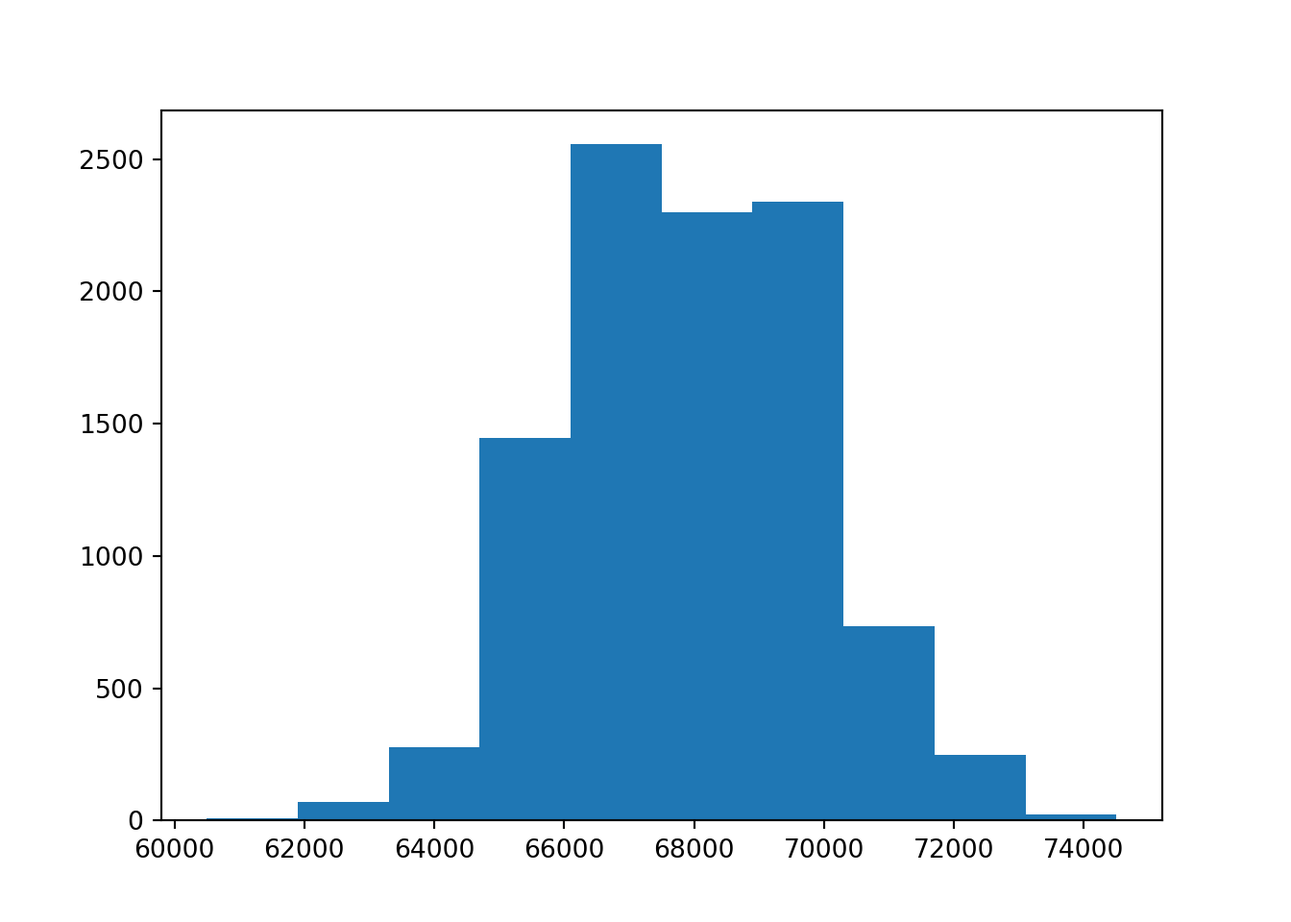
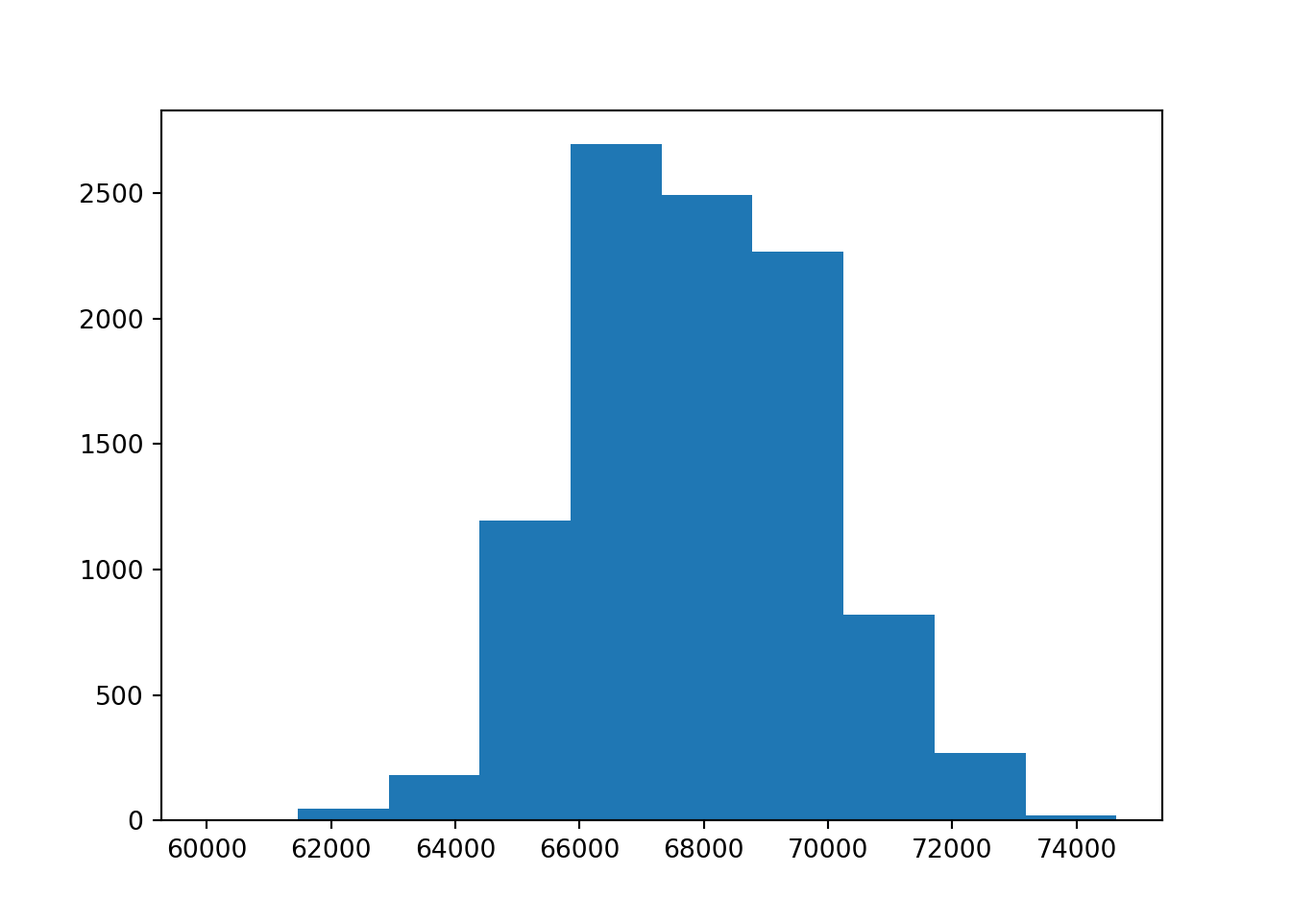
FDR Python updated

diff --git a/docs/introduction.html b/docs/introduction.html
@@ -153,7 +153,10 @@ code span.wa { color: #60a0b0; font-weight: bold; font-style: italic; } /* Warni
 <ul>
 <li class="chapter" data-level="2.1.1" data-path="introduction.html"><a href="introduction.html#python-for-bootstrapping"><i class="fa fa-check"></i><b>2.1.1</b> Python for Bootstrapping</a></li>
 </ul></li>
-<li class="chapter" data-level="2.2" data-path="introduction.html"><a href="introduction.html#adjusting-p-values"><i class="fa fa-check"></i><b>2.2</b> Adjusting p-values</a></li>
+<li class="chapter" data-level="2.2" data-path="introduction.html"><a href="introduction.html#adjusting-p-values"><i class="fa fa-check"></i><b>2.2</b> Adjusting p-values</a>
+<ul>
+<li class="chapter" data-level="2.2.1" data-path="introduction.html"><a href="introduction.html#python-code-for-fdr"><i class="fa fa-check"></i><b>2.2.1</b> Python code for FDR</a></li>
+</ul></li>
 <li class="chapter" data-level="2.3" data-path="introduction.html"><a href="introduction.html#transaction-data"><i class="fa fa-check"></i><b>2.3</b> Transaction data</a></li>
 <li class="chapter" data-level="2.4" data-path="introduction.html"><a href="introduction.html#association-analysis"><i class="fa fa-check"></i><b>2.4</b> Association Analysis</a></li>
 </ul></li>
@@ -264,12 +267,12 @@ code span.wa { color: #60a0b0; font-weight: bold; font-style: italic; } /* Warni
 <span id="cb5-8"><a href="introduction.html#cb5-8" tabindex="-1"></a>  boot.med[i]<span class="ot">=</span><span class="fu">median</span>(boot.samp)</span>
 <span id="cb5-9"><a href="introduction.html#cb5-9" tabindex="-1"></a>}</span>
 <span id="cb5-10"><a href="introduction.html#cb5-10" tabindex="-1"></a><span class="fu">sd</span>(boot.med)</span>
-<span id="cb5-11"><a href="introduction.html#cb5-11" tabindex="-1"></a><span class="do">## [1] 1.355891</span></span>
+<span id="cb5-11"><a href="introduction.html#cb5-11" tabindex="-1"></a><span class="do">## [1] 1.344323</span></span>
 <span id="cb5-12"><a href="introduction.html#cb5-12" tabindex="-1"></a>act.med</span>
 <span id="cb5-13"><a href="introduction.html#cb5-13" tabindex="-1"></a><span class="do">## [1] 335.17</span></span>
 <span id="cb5-14"><a href="introduction.html#cb5-14" tabindex="-1"></a><span class="fu">quantile</span>(boot.med,<span class="at">probs =</span> <span class="fu">c</span>(<span class="fl">0.025</span>,<span class="fl">0.975</span>))</span>
 <span id="cb5-15"><a href="introduction.html#cb5-15" tabindex="-1"></a><span class="do">##    2.5%   97.5% </span></span>
-<span id="cb5-16"><a href="introduction.html#cb5-16" tabindex="-1"></a><span class="do">## 332.675 337.800</span></span>
+<span id="cb5-16"><a href="introduction.html#cb5-16" tabindex="-1"></a><span class="do">## 332.745 337.800</span></span>
 <span id="cb5-17"><a href="introduction.html#cb5-17" tabindex="-1"></a><span class="fu">ggplot</span>(<span class="at">data=</span><span class="fu">data.frame</span>(boot.med),<span class="fu">aes</span>(<span class="at">x=</span>boot.med))<span class="sc">+</span><span class="fu">geom_histogram</span>() <span class="sc">+</span> <span class="fu">labs</span>(<span class="at">x=</span><span class="st">&quot;Bootstrap Sample&quot;</span>,<span class="at">y=</span><span class="st">&quot;Frequency&quot;</span>)</span>
 <span id="cb5-18"><a href="introduction.html#cb5-18" tabindex="-1"></a><span class="do">## `stat_bin()` using `bins = 30`. Pick better value with `binwidth`.</span></span></code></pre></div>
 <p><img src="bookdownproj_files/figure-html/bootstrap%20confidence%20interval-3.png" width="672" />
@@ -292,7 +295,7 @@ The second example is exploring if the median price of homes in Iowa with air co
 <p><img src="bookdownproj_files/figure-html/bootstrap%20hypothesis%20test-1.png" width="672" /></p>
 <div class="sourceCode" id="cb8"><pre class="sourceCode r"><code class="sourceCode r"><span id="cb8-1"><a href="introduction.html#cb8-1" tabindex="-1"></a><span class="fu">quantile</span>(diff.stat,<span class="at">probs =</span> <span class="fu">c</span>(<span class="fl">0.005</span>,<span class="fl">0.995</span>))</span></code></pre></div>
 <pre><code>##    0.5%   99.5% 
-## 58875.0 76865.5</code></pre>
+## 59000.0 76882.8</code></pre>
 <p>Since the confidence interval does NOT include 0, we would conclude that the medians appear to be significantly different.</p>
 <div id="python-for-bootstrapping" class="section level3 hasAnchor" number="2.1.1">
 <h3><span class="header-section-number">2.1.1</span> Python for Bootstrapping<a href="introduction.html#python-for-bootstrapping" class="anchor-section" aria-label="Anchor link to header"></a></h3>
@@ -321,15 +324,15 @@ The second example is exploring if the median price of homes in Iowa with air co
 <span id="cb15-5"><a href="introduction.html#cb15-5" tabindex="-1"></a><span class="co">#temp =statistics.median(random.choice(co2_py,n))</span></span>
 <span id="cb15-6"><a href="introduction.html#cb15-6" tabindex="-1"></a></span>
 <span id="cb15-7"><a href="introduction.html#cb15-7" tabindex="-1"></a><span class="bu">print</span>(statistics.stdev(temp))</span></code></pre></div>
-<pre><code>## 1.3630486884365889</code></pre>
+<pre><code>## 1.3555625565580598</code></pre>
 <div class="sourceCode" id="cb17"><pre class="sourceCode python"><code class="sourceCode python"><span id="cb17-1"><a href="introduction.html#cb17-1" tabindex="-1"></a><span class="bu">print</span>(<span class="st">&quot;Lower 95</span><span class="sc">% c</span><span class="st">onfidence interval for median&quot;</span>,np.quantile(temp,<span class="fl">0.025</span>))</span></code></pre></div>
 <pre><code>## Lower 95% confidence interval for median 332.675</code></pre>
 <div class="sourceCode" id="cb19"><pre class="sourceCode python"><code class="sourceCode python"><span id="cb19-1"><a href="introduction.html#cb19-1" tabindex="-1"></a><span class="bu">print</span>(<span class="st">&quot;Upper 95</span><span class="sc">% c</span><span class="st">onfidence interval for median&quot;</span>,np.quantile(temp,<span class="fl">0.975</span>))</span></code></pre></div>
-<pre><code>## Upper 95% confidence interval for median 337.815</code></pre>
+<pre><code>## Upper 95% confidence interval for median 337.81</code></pre>
 <div class="sourceCode" id="cb21"><pre class="sourceCode python"><code class="sourceCode python"><span id="cb21-1"><a href="introduction.html#cb21-1" tabindex="-1"></a>plt.hist(temp)</span></code></pre></div>
-<pre><code>## (array([2.000e+00, 4.900e+01, 6.030e+02, 1.719e+03, 2.841e+03, 2.393e+03,
-##        1.653e+03, 6.830e+02, 5.100e+01, 6.000e+00]), array([330.14 , 331.186, 332.232, 333.278, 334.324, 335.37 , 336.416,
-##        337.462, 338.508, 339.554, 340.6  ]), &lt;BarContainer object of 10 artists&gt;)</code></pre>
+<pre><code>## (array([  18.,  253.,  771., 2082., 2426., 2836.,  938.,  628.,   43.,
+##           5.]), array([330.735, 331.706, 332.677, 333.648, 334.619, 335.59 , 336.561,
+##        337.532, 338.503, 339.474, 340.445]), &lt;BarContainer object of 10 artists&gt;)</code></pre>
 <div class="sourceCode" id="cb23"><pre class="sourceCode python"><code class="sourceCode python"><span id="cb23-1"><a href="introduction.html#cb23-1" tabindex="-1"></a>plt.show()</span></code></pre></div>
 <p><img src="bookdownproj_files/figure-html/unnamed-chunk-1-2.png" width="672" /></p>
 <div class="sourceCode" id="cb24"><pre class="sourceCode python"><code class="sourceCode python"><span id="cb24-1"><a href="introduction.html#cb24-1" tabindex="-1"></a>ames_py<span class="op">=</span>r.ames</span>
@@ -347,9 +350,9 @@ The second example is exploring if the median price of homes in Iowa with air co
 <span id="cb26-10"><a href="introduction.html#cb26-10" tabindex="-1"></a>  diff_sale.append(diff_temp)</span>
 <span id="cb26-11"><a href="introduction.html#cb26-11" tabindex="-1"></a>  </span>
 <span id="cb26-12"><a href="introduction.html#cb26-12" tabindex="-1"></a>plt.hist(diff_sale)</span></code></pre></div>
-<pre><code>## (array([   9.,   70.,  277., 1446., 2555., 2297., 2337.,  736.,  250.,
-##          23.]), array([60500., 61900., 63300., 64700., 66100., 67500., 68900., 70300.,
-##        71700., 73100., 74500.]), &lt;BarContainer object of 10 artists&gt;)</code></pre>
+<pre><code>## (array([   7.,   48.,  181., 1196., 2694., 2492., 2268.,  822.,  270.,
+##          22.]), array([60000.  , 61464.25, 62928.5 , 64392.75, 65857.  , 67321.25,
+##        68785.5 , 70249.75, 71714.  , 73178.25, 74642.5 ]), &lt;BarContainer object of 10 artists&gt;)</code></pre>
 <div class="sourceCode" id="cb28"><pre class="sourceCode python"><code class="sourceCode python"><span id="cb28-1"><a href="introduction.html#cb28-1" tabindex="-1"></a>plt.show()</span></code></pre></div>
 <p><img src="bookdownproj_files/figure-html/unnamed-chunk-1-3.png" width="672" /></p>
 </div>
@@ -365,13 +368,25 @@ The second example is exploring if the median price of homes in Iowa with air co
 <span id="cb29-6"><a href="introduction.html#cb29-6" tabindex="-1"></a><span class="co">#Benjamini &amp; Hochberg</span></span>
 <span id="cb29-7"><a href="introduction.html#cb29-7" tabindex="-1"></a><span class="fu">p.adjust</span>(temp,<span class="at">method=</span><span class="st">&quot;BH&quot;</span>)</span>
 <span id="cb29-8"><a href="introduction.html#cb29-8" tabindex="-1"></a><span class="do">## [1] 0.0040000 0.0600000 0.2666667 0.4000000</span></span></code></pre></div>
+<div id="python-code-for-fdr" class="section level3 hasAnchor" number="2.2.1">
+<h3><span class="header-section-number">2.2.1</span> Python code for FDR<a href="introduction.html#python-code-for-fdr" class="anchor-section" aria-label="Anchor link to header"></a></h3>
+<p>Please note that the false discover rate command is commented out in this chunk. This is because the stats within scipy needs an earlier version of numpy (which I just updated for the bootstrap algorithm above).</p>
+<div class="sourceCode" id="cb30"><pre class="sourceCode python"><code class="sourceCode python"><span id="cb30-1"><a href="introduction.html#cb30-1" tabindex="-1"></a><span class="co">#from scipy import stats</span></span>
+<span id="cb30-2"><a href="introduction.html#cb30-2" tabindex="-1"></a></span>
+<span id="cb30-3"><a href="introduction.html#cb30-3" tabindex="-1"></a>p_test <span class="op">=</span> np.array([<span class="fl">0.001</span>,<span class="fl">0.03</span>,<span class="fl">0.2</span>,<span class="fl">0.4</span>])</span>
+<span id="cb30-4"><a href="introduction.html#cb30-4" tabindex="-1"></a><span class="co">#stats.false_discovery_control(p_test, method=&#39;bh&#39;)</span></span>
+<span id="cb30-5"><a href="introduction.html#cb30-5" tabindex="-1"></a></span>
+<span id="cb30-6"><a href="introduction.html#cb30-6" tabindex="-1"></a><span class="co"># Bonferroni</span></span>
+<span id="cb30-7"><a href="introduction.html#cb30-7" tabindex="-1"></a>p_test <span class="op">*</span><span class="bu">len</span>(p_test)</span></code></pre></div>
+<pre><code>## array([0.004, 0.12 , 0.8  , 1.6  ])</code></pre>
+</div>
 </div>
 <div id="transaction-data" class="section level2 hasAnchor" number="2.3">
 <h2><span class="header-section-number">2.3</span> Transaction data<a href="introduction.html#transaction-data" class="anchor-section" aria-label="Anchor link to header"></a></h2>
 <p>A basic concept you will need is how to deal with transactional data. Trasactional data is usually in the form of a long data set with multiple observation per “ID”. Take for example the following small data set:</p>
 <table class=" lightable-paper lightable-striped" style="font-family: &quot;Arial Narrow&quot;, arial, helvetica, sans-serif; width: auto !important; margin-left: auto; margin-right: auto;">
 <caption>
-<span id="tab:unnamed-chunk-2">Table 2.1: </span>Example
+<span id="tab:unnamed-chunk-3">Table 2.1: </span>Example
 </caption>
 <thead>
 <tr>
@@ -490,16 +505,16 @@ NA
 </tbody>
 </table>
 <p>Notice that there are four transactions for Person 1, four transactions for Person 2 (including a missing value) and three transactions for Person 3. We will need to “roll” these up into one observation per person.</p>
-<div class="sourceCode" id="cb30"><pre class="sourceCode r"><code class="sourceCode r"><span id="cb30-1"><a href="introduction.html#cb30-1" tabindex="-1"></a>new.check <span class="ot">=</span> check <span class="sc">%&gt;%</span> <span class="fu">group_by</span>(ID) <span class="sc">%&gt;%</span></span>
-<span id="cb30-2"><a href="introduction.html#cb30-2" tabindex="-1"></a>  <span class="fu">summarise</span>(<span class="at">mean.check=</span><span class="fu">mean</span>(Checking,<span class="at">na.rm=</span>T),<span class="at">std.check=</span><span class="fu">sd</span>(Checking,<span class="at">na.rm=</span>T))</span></code></pre></div>
+<div class="sourceCode" id="cb32"><pre class="sourceCode r"><code class="sourceCode r"><span id="cb32-1"><a href="introduction.html#cb32-1" tabindex="-1"></a>new.check <span class="ot">=</span> check <span class="sc">%&gt;%</span> <span class="fu">group_by</span>(ID) <span class="sc">%&gt;%</span></span>
+<span id="cb32-2"><a href="introduction.html#cb32-2" tabindex="-1"></a>  <span class="fu">summarise</span>(<span class="at">mean.check=</span><span class="fu">mean</span>(Checking,<span class="at">na.rm=</span>T),<span class="at">std.check=</span><span class="fu">sd</span>(Checking,<span class="at">na.rm=</span>T))</span></code></pre></div>
 <p>It is HIGHLY recommended that you ALWAYS create a flag for missing values (do this BEFORE rolling up). The following code creates the flag for the missing values and then rolls everything up:</p>
-<div class="sourceCode" id="cb31"><pre class="sourceCode r"><code class="sourceCode r"><span id="cb31-1"><a href="introduction.html#cb31-1" tabindex="-1"></a>check<span class="sc">$</span>flag<span class="ot">=</span><span class="fu">ifelse</span>(<span class="fu">is.na</span>(check<span class="sc">$</span>Checking),<span class="dv">1</span>,<span class="dv">0</span>)</span>
-<span id="cb31-2"><a href="introduction.html#cb31-2" tabindex="-1"></a></span>
-<span id="cb31-3"><a href="introduction.html#cb31-3" tabindex="-1"></a>new.check <span class="ot">=</span> check <span class="sc">%&gt;%</span> <span class="fu">group_by</span>(ID) <span class="sc">%&gt;%</span></span>
-<span id="cb31-4"><a href="introduction.html#cb31-4" tabindex="-1"></a>  <span class="fu">summarise</span>(<span class="at">mean.check=</span><span class="fu">mean</span>(Checking,<span class="at">na.rm=</span>T),<span class="at">std.check=</span><span class="fu">sd</span>(Checking,<span class="at">na.rm=</span>T),<span class="at">na.check=</span><span class="fu">sum</span>(flag))</span></code></pre></div>
+<div class="sourceCode" id="cb33"><pre class="sourceCode r"><code class="sourceCode r"><span id="cb33-1"><a href="introduction.html#cb33-1" tabindex="-1"></a>check<span class="sc">$</span>flag<span class="ot">=</span><span class="fu">ifelse</span>(<span class="fu">is.na</span>(check<span class="sc">$</span>Checking),<span class="dv">1</span>,<span class="dv">0</span>)</span>
+<span id="cb33-2"><a href="introduction.html#cb33-2" tabindex="-1"></a></span>
+<span id="cb33-3"><a href="introduction.html#cb33-3" tabindex="-1"></a>new.check <span class="ot">=</span> check <span class="sc">%&gt;%</span> <span class="fu">group_by</span>(ID) <span class="sc">%&gt;%</span></span>
+<span id="cb33-4"><a href="introduction.html#cb33-4" tabindex="-1"></a>  <span class="fu">summarise</span>(<span class="at">mean.check=</span><span class="fu">mean</span>(Checking,<span class="at">na.rm=</span>T),<span class="at">std.check=</span><span class="fu">sd</span>(Checking,<span class="at">na.rm=</span>T),<span class="at">na.check=</span><span class="fu">sum</span>(flag))</span></code></pre></div>
 <table class=" lightable-paper lightable-striped" style="font-family: &quot;Arial Narrow&quot;, arial, helvetica, sans-serif; width: auto !important; margin-left: auto; margin-right: auto;">
 <caption>
-<span id="tab:unnamed-chunk-3">Table 2.2: </span>Rolled up
+<span id="tab:unnamed-chunk-4">Table 2.2: </span>Rolled up
 </caption>
 <thead>
 <tr>
@@ -693,8 +708,8 @@ bread
 </tbody>
 </table>
 <p>As you can see, there is a separate line for each item. If we want to analyze this data set with the package ‘arules’, we need the data to be wide (not long). In other words, one line per ID. We can create the wide data set in R by using the following line (and then “inspect” it or view it).</p>
-<div class="sourceCode" id="cb32"><pre class="sourceCode r"><code class="sourceCode r"><span id="cb32-1"><a href="introduction.html#cb32-1" tabindex="-1"></a>trans.dat <span class="ot">&lt;-</span> <span class="fu">as</span>(<span class="fu">split</span>(temp.dat<span class="sc">$</span>Grocery, temp.dat<span class="sc">$</span>ID), <span class="st">&quot;transactions&quot;</span>)</span>
-<span id="cb32-2"><a href="introduction.html#cb32-2" tabindex="-1"></a><span class="fu">inspect</span>(trans.dat)</span></code></pre></div>
+<div class="sourceCode" id="cb34"><pre class="sourceCode r"><code class="sourceCode r"><span id="cb34-1"><a href="introduction.html#cb34-1" tabindex="-1"></a>trans.dat <span class="ot">&lt;-</span> <span class="fu">as</span>(<span class="fu">split</span>(temp.dat<span class="sc">$</span>Grocery, temp.dat<span class="sc">$</span>ID), <span class="st">&quot;transactions&quot;</span>)</span>
+<span id="cb34-2"><a href="introduction.html#cb34-2" tabindex="-1"></a><span class="fu">inspect</span>(trans.dat)</span></code></pre></div>
 <pre><code>##      items                             transactionID
 ## [1]  {bread, egg, oat packet, papaya}  1            
 ## [2]  {bread, milk, oat packet, papaya} 2            
@@ -708,14 +723,14 @@ bread
 ## [10] {bread, milk, papaya}             10           
 ## [11] {egg, milk}                       11</code></pre>
 <p>The following code runs the association analysis and stores the results in the object rules. Once you have this stored object, you can view it and partition it in different ways..</p>
-<div class="sourceCode" id="cb34"><pre class="sourceCode r"><code class="sourceCode r"><span id="cb34-1"><a href="introduction.html#cb34-1" tabindex="-1"></a>trans.dat<span class="sc">@</span>itemInfo<span class="sc">$</span>labels</span></code></pre></div>
+<div class="sourceCode" id="cb36"><pre class="sourceCode r"><code class="sourceCode r"><span id="cb36-1"><a href="introduction.html#cb36-1" tabindex="-1"></a>trans.dat<span class="sc">@</span>itemInfo<span class="sc">$</span>labels</span></code></pre></div>
 <pre><code>## [1] &quot;bread&quot;      &quot;butter&quot;     &quot;egg&quot;        &quot;milk&quot;       &quot;oat packet&quot;
 ## [6] &quot;papaya&quot;</code></pre>
-<div class="sourceCode" id="cb36"><pre class="sourceCode r"><code class="sourceCode r"><span id="cb36-1"><a href="introduction.html#cb36-1" tabindex="-1"></a><span class="co"># Create an item frequency plot for the top 3 items</span></span>
-<span id="cb36-2"><a href="introduction.html#cb36-2" tabindex="-1"></a><span class="fu">itemFrequencyPlot</span>(trans.dat,<span class="at">topN=</span><span class="dv">3</span>,<span class="at">type=</span><span class="st">&quot;absolute&quot;</span>)</span></code></pre></div>
+<div class="sourceCode" id="cb38"><pre class="sourceCode r"><code class="sourceCode r"><span id="cb38-1"><a href="introduction.html#cb38-1" tabindex="-1"></a><span class="co"># Create an item frequency plot for the top 3 items</span></span>
+<span id="cb38-2"><a href="introduction.html#cb38-2" tabindex="-1"></a><span class="fu">itemFrequencyPlot</span>(trans.dat,<span class="at">topN=</span><span class="dv">3</span>,<span class="at">type=</span><span class="st">&quot;absolute&quot;</span>)</span></code></pre></div>
 <p><img src="bookdownproj_files/figure-html/association2-1.png" width="672" /></p>
-<div class="sourceCode" id="cb37"><pre class="sourceCode r"><code class="sourceCode r"><span id="cb37-1"><a href="introduction.html#cb37-1" tabindex="-1"></a><span class="co"># Get the rules</span></span>
-<span id="cb37-2"><a href="introduction.html#cb37-2" tabindex="-1"></a>rules <span class="ot">&lt;-</span> <span class="fu">apriori</span>(trans.dat, <span class="at">parameter =</span> <span class="fu">list</span>(<span class="at">supp =</span> <span class="fl">0.1</span>, <span class="at">conf =</span> <span class="fl">0.001</span>, <span class="at">target=</span><span class="st">&quot;rules&quot;</span>))</span></code></pre></div>
+<div class="sourceCode" id="cb39"><pre class="sourceCode r"><code class="sourceCode r"><span id="cb39-1"><a href="introduction.html#cb39-1" tabindex="-1"></a><span class="co"># Get the rules</span></span>
+<span id="cb39-2"><a href="introduction.html#cb39-2" tabindex="-1"></a>rules <span class="ot">&lt;-</span> <span class="fu">apriori</span>(trans.dat, <span class="at">parameter =</span> <span class="fu">list</span>(<span class="at">supp =</span> <span class="fl">0.1</span>, <span class="at">conf =</span> <span class="fl">0.001</span>, <span class="at">target=</span><span class="st">&quot;rules&quot;</span>))</span></code></pre></div>
 <pre><code>## Apriori
 ## 
 ## Parameter specification:
@@ -737,9 +752,9 @@ bread
 ## checking subsets of size 1 2 3 done [0.00s].
 ## writing ... [32 rule(s)] done [0.00s].
 ## creating S4 object  ... done [0.00s].</code></pre>
-<div class="sourceCode" id="cb39"><pre class="sourceCode r"><code class="sourceCode r"><span id="cb39-1"><a href="introduction.html#cb39-1" tabindex="-1"></a>rules<span class="ot">&lt;-</span><span class="fu">sort</span>(rules, <span class="at">by=</span><span class="st">&quot;confidence&quot;</span>, <span class="at">decreasing=</span><span class="cn">TRUE</span>)</span>
-<span id="cb39-2"><a href="introduction.html#cb39-2" tabindex="-1"></a></span>
-<span id="cb39-3"><a href="introduction.html#cb39-3" tabindex="-1"></a><span class="fu">inspect</span>(rules[<span class="dv">1</span><span class="sc">:</span><span class="dv">4</span>])</span></code></pre></div>
+<div class="sourceCode" id="cb41"><pre class="sourceCode r"><code class="sourceCode r"><span id="cb41-1"><a href="introduction.html#cb41-1" tabindex="-1"></a>rules<span class="ot">&lt;-</span><span class="fu">sort</span>(rules, <span class="at">by=</span><span class="st">&quot;confidence&quot;</span>, <span class="at">decreasing=</span><span class="cn">TRUE</span>)</span>
+<span id="cb41-2"><a href="introduction.html#cb41-2" tabindex="-1"></a></span>
+<span id="cb41-3"><a href="introduction.html#cb41-3" tabindex="-1"></a><span class="fu">inspect</span>(rules[<span class="dv">1</span><span class="sc">:</span><span class="dv">4</span>])</span></code></pre></div>
 <pre><code>##     lhs                    rhs      support   confidence coverage  lift    
 ## [1] {butter}            =&gt; {bread}  0.2727273 1.0000000  0.2727273 1.571429
 ## [2] {bread, oat packet} =&gt; {papaya} 0.1818182 1.0000000  0.1818182 1.833333
@@ -750,7 +765,7 @@ bread
 ## [2] 2    
 ## [3] 3    
 ## [4] 4</code></pre>
-<div class="sourceCode" id="cb41"><pre class="sourceCode r"><code class="sourceCode r"><span id="cb41-1"><a href="introduction.html#cb41-1" tabindex="-1"></a>oat.rules <span class="ot">=</span> <span class="fu">apriori</span>(trans.dat, <span class="at">parameter =</span> <span class="fu">list</span>(<span class="at">supp=</span><span class="fl">0.001</span>, <span class="at">conf=</span><span class="fl">0.8</span>),<span class="at">appearance =</span> <span class="fu">list</span>(<span class="at">default=</span><span class="st">&quot;lhs&quot;</span>,<span class="at">rhs=</span><span class="st">&quot;oat packet&quot;</span>))</span></code></pre></div>
+<div class="sourceCode" id="cb43"><pre class="sourceCode r"><code class="sourceCode r"><span id="cb43-1"><a href="introduction.html#cb43-1" tabindex="-1"></a>oat.rules <span class="ot">=</span> <span class="fu">apriori</span>(trans.dat, <span class="at">parameter =</span> <span class="fu">list</span>(<span class="at">supp=</span><span class="fl">0.001</span>, <span class="at">conf=</span><span class="fl">0.8</span>),<span class="at">appearance =</span> <span class="fu">list</span>(<span class="at">default=</span><span class="st">&quot;lhs&quot;</span>,<span class="at">rhs=</span><span class="st">&quot;oat packet&quot;</span>))</span></code></pre></div>
 <pre><code>## Apriori
 ## 
 ## Parameter specification:
@@ -772,7 +787,7 @@ bread
 ## checking subsets of size 1 2 3 4 done [0.00s].
 ## writing ... [2 rule(s)] done [0.00s].
 ## creating S4 object  ... done [0.00s].</code></pre>
-<div class="sourceCode" id="cb43"><pre class="sourceCode r"><code class="sourceCode r"><span id="cb43-1"><a href="introduction.html#cb43-1" tabindex="-1"></a>oat.rules2 <span class="ot">=</span> <span class="fu">apriori</span>(trans.dat, <span class="at">parameter =</span> <span class="fu">list</span>(<span class="at">supp=</span><span class="fl">0.001</span>, <span class="at">conf=</span><span class="fl">0.8</span>),<span class="at">appearance =</span> <span class="fu">list</span>(<span class="at">lhs=</span><span class="st">&quot;oat packet&quot;</span>, <span class="at">default=</span><span class="st">&quot;rhs&quot;</span>))</span></code></pre></div>
+<div class="sourceCode" id="cb45"><pre class="sourceCode r"><code class="sourceCode r"><span id="cb45-1"><a href="introduction.html#cb45-1" tabindex="-1"></a>oat.rules2 <span class="ot">=</span> <span class="fu">apriori</span>(trans.dat, <span class="at">parameter =</span> <span class="fu">list</span>(<span class="at">supp=</span><span class="fl">0.001</span>, <span class="at">conf=</span><span class="fl">0.8</span>),<span class="at">appearance =</span> <span class="fu">list</span>(<span class="at">lhs=</span><span class="st">&quot;oat packet&quot;</span>, <span class="at">default=</span><span class="st">&quot;rhs&quot;</span>))</span></code></pre></div>
 <pre><code>## Apriori
 ## 
 ## Parameter specification:
@@ -794,13 +809,13 @@ bread
 ## checking subsets of size 1 2 done [0.00s].
 ## writing ... [0 rule(s)] done [0.00s].
 ## creating S4 object  ... done [0.00s].</code></pre>
-<div class="sourceCode" id="cb45"><pre class="sourceCode r"><code class="sourceCode r"><span id="cb45-1"><a href="introduction.html#cb45-1" tabindex="-1"></a><span class="fu">plot</span>(rules)</span></code></pre></div>
+<div class="sourceCode" id="cb47"><pre class="sourceCode r"><code class="sourceCode r"><span id="cb47-1"><a href="introduction.html#cb47-1" tabindex="-1"></a><span class="fu">plot</span>(rules)</span></code></pre></div>
 <pre><code>## To reduce overplotting, jitter is added! Use jitter = 0 to prevent jitter.</code></pre>
 <p><img src="bookdownproj_files/figure-html/association2-2.png" width="672" /></p>
-<div class="sourceCode" id="cb47"><pre class="sourceCode r"><code class="sourceCode r"><span id="cb47-1"><a href="introduction.html#cb47-1" tabindex="-1"></a>top10rules <span class="ot">=</span> <span class="fu">head</span>(rules, <span class="at">n =</span> <span class="dv">10</span>, <span class="at">by =</span> <span class="st">&quot;confidence&quot;</span>)</span>
-<span id="cb47-2"><a href="introduction.html#cb47-2" tabindex="-1"></a><span class="fu">plot</span>(top10rules, <span class="at">method =</span> <span class="st">&quot;graph&quot;</span>,  <span class="at">engine =</span> <span class="st">&quot;htmlwidget&quot;</span>)</span></code></pre></div>
-<div class="visNetwork html-widget html-fill-item-overflow-hidden html-fill-item" id="htmlwidget-1e19017cbf4a64143e09" style="width:672px;height:480px;"></div>
-<script type="application/json" data-for="htmlwidget-1e19017cbf4a64143e09">{"x":{"nodes":{"id":[1,2,3,4,5,6,7,8,9,10,11,12,13,14,15,16],"label":["bread","butter","egg","milk","oat packet","papaya","rule 1","rule 2","rule 3","rule 4","rule 5","rule 6","rule 7","rule 8","rule 9","rule 10"],"group":[1,1,1,1,1,1,2,2,2,2,2,2,2,2,2,2],"value":[1,1,1,1,1,1,20.8,1,20.8,40.6,1,1,1,100,20.8,40.6],"color":["#CBD2FC","#CBD2FC","#CBD2FC","#CBD2FC","#CBD2FC","#CBD2FC","#EE6666","#EE1B1B","#EE9999","#EECBCB","#EECBCB","#EECBCB","#EEB1B1","#EED4D4","#EEDCDC","#EECBCB"],"title":["bread","butter","egg","milk","oat packet","papaya","<B>[1]<\/B><BR><B>{butter}<\/B><BR>&nbsp;&nbsp; => <B>{bread}<\/B><BR><BR>support = 0.273<BR>confidence = 1<BR>coverage = 0.273<BR>lift = 1.57<BR>count = 3<BR>order = 2<BR>id = 1","<B>[2]<\/B><BR><B>{bread,<BR>&nbsp;&nbsp;oat packet}<\/B><BR>&nbsp;&nbsp; => <B>{papaya}<\/B><BR><BR>support = 0.182<BR>confidence = 1<BR>coverage = 0.182<BR>lift = 1.83<BR>count = 2<BR>order = 3<BR>id = 2","<B>[3]<\/B><BR><B>{oat packet}<\/B><BR>&nbsp;&nbsp; => <B>{papaya}<\/B><BR><BR>support = 0.273<BR>confidence = 0.75<BR>coverage = 0.364<BR>lift = 1.38<BR>count = 3<BR>order = 2<BR>id = 3","<B>[4]<\/B><BR><B>{papaya}<\/B><BR>&nbsp;&nbsp; => <B>{bread}<\/B><BR><BR>support = 0.364<BR>confidence = 0.667<BR>coverage = 0.545<BR>lift = 1.05<BR>count = 4<BR>order = 2<BR>id = 4","<B>[5]<\/B><BR><B>{oat packet,<BR>&nbsp;&nbsp;papaya}<\/B><BR>&nbsp;&nbsp; => <B>{bread}<\/B><BR><BR>support = 0.182<BR>confidence = 0.667<BR>coverage = 0.273<BR>lift = 1.05<BR>count = 2<BR>order = 3<BR>id = 5","<B>[6]<\/B><BR><B>{milk,<BR>&nbsp;&nbsp;papaya}<\/B><BR>&nbsp;&nbsp; => <B>{bread}<\/B><BR><BR>support = 0.182<BR>confidence = 0.667<BR>coverage = 0.273<BR>lift = 1.05<BR>count = 2<BR>order = 3<BR>id = 6","<B>[7]<\/B><BR><B>{bread,<BR>&nbsp;&nbsp;milk}<\/B><BR>&nbsp;&nbsp; => <B>{papaya}<\/B><BR><BR>support = 0.182<BR>confidence = 0.667<BR>coverage = 0.273<BR>lift = 1.22<BR>count = 2<BR>order = 3<BR>id = 7","<B>[8]<\/B><BR><B>{}<\/B><BR>&nbsp;&nbsp; => <B>{bread}<\/B><BR><BR>support = 0.636<BR>confidence = 0.636<BR>coverage = 1<BR>lift = 1<BR>count = 7<BR>order = 1<BR>id = 8","<B>[9]<\/B><BR><B>{egg}<\/B><BR>&nbsp;&nbsp; => <B>{bread}<\/B><BR><BR>support = 0.273<BR>confidence = 0.6<BR>coverage = 0.455<BR>lift = 0.943<BR>count = 3<BR>order = 2<BR>id = 9","<B>[10]<\/B><BR><B>{bread}<\/B><BR>&nbsp;&nbsp; => <B>{papaya}<\/B><BR><BR>support = 0.364<BR>confidence = 0.571<BR>coverage = 0.636<BR>lift = 1.05<BR>count = 4<BR>order = 2<BR>id = 10"],"shape":["box","box","box","box","box","box","circle","circle","circle","circle","circle","circle","circle","circle","circle","circle"],"x":[-0.12215288132185,1,0.624535671923957,-1,-0.478983896524439,-0.553657224460214,0.526836076043988,-0.404023377205401,-0.797928939389297,-0.394385432236001,-0.227583835656663,-0.716454415063849,-0.610608296928104,-0.0742147687109009,0.322050564792028,-0.114426072712004],"y":[-0.0102233928152671,0.236798387812424,-1,-0.359640570169029,1,0.341123203050913,0.128118616137994,0.570736161282923,0.876096367519689,0.00128700381413482,0.615591517208096,-0.0342249567979971,-0.20961178905037,-0.566303082694188,-0.570910830269871,0.322160458000946]},"edges":{"from":[2,1,5,5,6,5,6,4,6,1,4,3,1,7,8,9,10,11,12,13,14,15,16],"to":[7,8,8,9,10,11,11,12,12,13,13,15,16,1,6,6,1,1,1,6,1,1,6],"arrows":["to","to","to","to","to","to","to","to","to","to","to","to","to","to","to","to","to","to","to","to","to","to","to"]},"nodesToDataframe":true,"edgesToDataframe":true,"options":{"width":"100%","height":"100%","nodes":{"shape":"dot","physics":false},"manipulation":{"enabled":false},"edges":{"smooth":false},"physics":{"stabilization":false},"interaction":{"hover":true,"zoomSpeed":1}},"groups":["1","2"],"width":null,"height":null,"idselection":{"enabled":true,"style":"width: 150px; height: 26px","useLabels":true,"main":"Select by id"},"byselection":{"enabled":false,"style":"width: 150px; height: 26px","multiple":false,"hideColor":"rgba(200,200,200,0.5)","highlight":false},"main":null,"submain":null,"footer":null,"background":"rgba(0, 0, 0, 0)","igraphlayout":{"type":"square"},"tooltipStay":300,"tooltipStyle":"position: fixed;visibility:hidden;padding: 5px;white-space: nowrap;font-family: verdana;font-size:14px;font-color:#000000;background-color: #f5f4ed;-moz-border-radius: 3px;-webkit-border-radius: 3px;border-radius: 3px;border: 1px solid #808074;box-shadow: 3px 3px 10px rgba(0, 0, 0, 0.2);","highlight":{"enabled":true,"hoverNearest":true,"degree":1,"algorithm":"all","hideColor":"rgba(200,200,200,0.5)","labelOnly":true},"collapse":{"enabled":false,"fit":false,"resetHighlight":true,"clusterOptions":null,"keepCoord":true,"labelSuffix":"(cluster)"}},"evals":[],"jsHooks":[]}</script>
+<div class="sourceCode" id="cb49"><pre class="sourceCode r"><code class="sourceCode r"><span id="cb49-1"><a href="introduction.html#cb49-1" tabindex="-1"></a>top10rules <span class="ot">=</span> <span class="fu">head</span>(rules, <span class="at">n =</span> <span class="dv">10</span>, <span class="at">by =</span> <span class="st">&quot;confidence&quot;</span>)</span>
+<span id="cb49-2"><a href="introduction.html#cb49-2" tabindex="-1"></a><span class="fu">plot</span>(top10rules, <span class="at">method =</span> <span class="st">&quot;graph&quot;</span>,  <span class="at">engine =</span> <span class="st">&quot;htmlwidget&quot;</span>)</span></code></pre></div>
+<div class="visNetwork html-widget html-fill-item-overflow-hidden html-fill-item" id="htmlwidget-a85db0969abbd471c6d3" style="width:672px;height:480px;"></div>
+<script type="application/json" data-for="htmlwidget-a85db0969abbd471c6d3">{"x":{"nodes":{"id":[1,2,3,4,5,6,7,8,9,10,11,12,13,14,15,16],"label":["bread","butter","egg","milk","oat packet","papaya","rule 1","rule 2","rule 3","rule 4","rule 5","rule 6","rule 7","rule 8","rule 9","rule 10"],"group":[1,1,1,1,1,1,2,2,2,2,2,2,2,2,2,2],"value":[1,1,1,1,1,1,20.8,1,20.8,40.6,1,1,1,100,20.8,40.6],"color":["#CBD2FC","#CBD2FC","#CBD2FC","#CBD2FC","#CBD2FC","#CBD2FC","#EE6666","#EE1B1B","#EE9999","#EECBCB","#EECBCB","#EECBCB","#EEB1B1","#EED4D4","#EEDCDC","#EECBCB"],"title":["bread","butter","egg","milk","oat packet","papaya","<B>[1]<\/B><BR><B>{butter}<\/B><BR>&nbsp;&nbsp; => <B>{bread}<\/B><BR><BR>support = 0.273<BR>confidence = 1<BR>coverage = 0.273<BR>lift = 1.57<BR>count = 3<BR>order = 2<BR>id = 1","<B>[2]<\/B><BR><B>{bread,<BR>&nbsp;&nbsp;oat packet}<\/B><BR>&nbsp;&nbsp; => <B>{papaya}<\/B><BR><BR>support = 0.182<BR>confidence = 1<BR>coverage = 0.182<BR>lift = 1.83<BR>count = 2<BR>order = 3<BR>id = 2","<B>[3]<\/B><BR><B>{oat packet}<\/B><BR>&nbsp;&nbsp; => <B>{papaya}<\/B><BR><BR>support = 0.273<BR>confidence = 0.75<BR>coverage = 0.364<BR>lift = 1.38<BR>count = 3<BR>order = 2<BR>id = 3","<B>[4]<\/B><BR><B>{papaya}<\/B><BR>&nbsp;&nbsp; => <B>{bread}<\/B><BR><BR>support = 0.364<BR>confidence = 0.667<BR>coverage = 0.545<BR>lift = 1.05<BR>count = 4<BR>order = 2<BR>id = 4","<B>[5]<\/B><BR><B>{oat packet,<BR>&nbsp;&nbsp;papaya}<\/B><BR>&nbsp;&nbsp; => <B>{bread}<\/B><BR><BR>support = 0.182<BR>confidence = 0.667<BR>coverage = 0.273<BR>lift = 1.05<BR>count = 2<BR>order = 3<BR>id = 5","<B>[6]<\/B><BR><B>{milk,<BR>&nbsp;&nbsp;papaya}<\/B><BR>&nbsp;&nbsp; => <B>{bread}<\/B><BR><BR>support = 0.182<BR>confidence = 0.667<BR>coverage = 0.273<BR>lift = 1.05<BR>count = 2<BR>order = 3<BR>id = 6","<B>[7]<\/B><BR><B>{bread,<BR>&nbsp;&nbsp;milk}<\/B><BR>&nbsp;&nbsp; => <B>{papaya}<\/B><BR><BR>support = 0.182<BR>confidence = 0.667<BR>coverage = 0.273<BR>lift = 1.22<BR>count = 2<BR>order = 3<BR>id = 7","<B>[8]<\/B><BR><B>{}<\/B><BR>&nbsp;&nbsp; => <B>{bread}<\/B><BR><BR>support = 0.636<BR>confidence = 0.636<BR>coverage = 1<BR>lift = 1<BR>count = 7<BR>order = 1<BR>id = 8","<B>[9]<\/B><BR><B>{egg}<\/B><BR>&nbsp;&nbsp; => <B>{bread}<\/B><BR><BR>support = 0.273<BR>confidence = 0.6<BR>coverage = 0.455<BR>lift = 0.943<BR>count = 3<BR>order = 2<BR>id = 9","<B>[10]<\/B><BR><B>{bread}<\/B><BR>&nbsp;&nbsp; => <B>{papaya}<\/B><BR><BR>support = 0.364<BR>confidence = 0.571<BR>coverage = 0.636<BR>lift = 1.05<BR>count = 4<BR>order = 2<BR>id = 10"],"shape":["box","box","box","box","box","box","circle","circle","circle","circle","circle","circle","circle","circle","circle","circle"],"x":[0.113164853118797,0.00747004075560409,-1,1,0.274103923951308,0.467118355857654,0.0595230300362222,0.28053660632711,0.601403405471269,0.0682381810990156,0.103940883387256,0.606051973161515,0.676436484424188,-0.208593690788155,-0.534959354208641,0.374400303678304],"y":[0.0985409754331625,-1,0.0560565730212621,-0.0213725308481618,1,0.475508563567383,-0.540111660441799,0.631141138859338,0.962061768806175,0.372181725600326,0.63576799782864,0.0274591471665879,0.193545455055444,-0.215153794068995,0.075401119720711,0.162414364832449]},"edges":{"from":[2,1,5,5,6,5,6,4,6,1,4,3,1,7,8,9,10,11,12,13,14,15,16],"to":[7,8,8,9,10,11,11,12,12,13,13,15,16,1,6,6,1,1,1,6,1,1,6],"arrows":["to","to","to","to","to","to","to","to","to","to","to","to","to","to","to","to","to","to","to","to","to","to","to"]},"nodesToDataframe":true,"edgesToDataframe":true,"options":{"width":"100%","height":"100%","nodes":{"shape":"dot","physics":false},"manipulation":{"enabled":false},"edges":{"smooth":false},"physics":{"stabilization":false},"interaction":{"hover":true,"zoomSpeed":1}},"groups":["1","2"],"width":null,"height":null,"idselection":{"enabled":true,"style":"width: 150px; height: 26px","useLabels":true,"main":"Select by id"},"byselection":{"enabled":false,"style":"width: 150px; height: 26px","multiple":false,"hideColor":"rgba(200,200,200,0.5)","highlight":false},"main":null,"submain":null,"footer":null,"background":"rgba(0, 0, 0, 0)","igraphlayout":{"type":"square"},"tooltipStay":300,"tooltipStyle":"position: fixed;visibility:hidden;padding: 5px;white-space: nowrap;font-family: verdana;font-size:14px;font-color:#000000;background-color: #f5f4ed;-moz-border-radius: 3px;-webkit-border-radius: 3px;border-radius: 3px;border: 1px solid #808074;box-shadow: 3px 3px 10px rgba(0, 0, 0, 0.2);","highlight":{"enabled":true,"hoverNearest":true,"degree":1,"algorithm":"all","hideColor":"rgba(200,200,200,0.5)","labelOnly":true},"collapse":{"enabled":false,"fit":false,"resetHighlight":true,"clusterOptions":null,"keepCoord":true,"labelSuffix":"(cluster)"}},"evals":[],"jsHooks":[]}</script>
 
 </div>
 </div>
